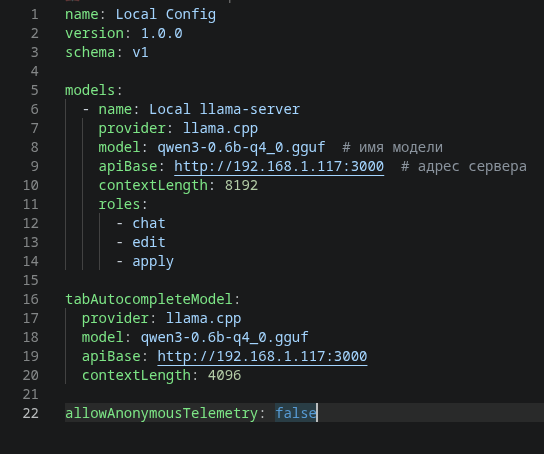
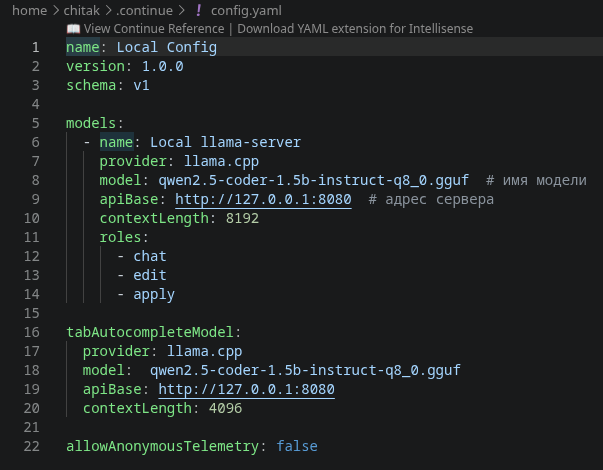
12345

Changed region(s): [[0.0, 0.0, 0.9688, 0.9868]]

diff --git a/test_code/test1.cpp b/test_code/test1.cpp
@@ -1,0 +1,37 @@
+#include <iostream>
+using namespace std;
+int main() {
+    // Prompt user to enter the character for the square
+    char symbol;
+    cout << "Enter the character for the square: ";
+    cin >> symbol;
+
+    // Prompt user to enter the size of the square
+    int size;
+    cout << "Enter the size of the square: ";
+    cin >> size;
+
+    // Print the top and bottom rows of the square
+    for (int i = 0; i < size; i++) {
+        cout << symbol;
+    }
+    cout << endl;
+
+    // Print the middle rows of the square
+    for (int i = 0; i < size - 2; i++) {
+        cout << symbol;
+        for (int j = 1; j < size - 1; j++) {
+            cout << " ";
+        }
+        cout << symbol;
+        cout << endl;
+    }
+
+    // Print the last row of the square
+    for (int i = 0; i < size; i++) {
+        cout << symbol;
+    }
+    cout << endl;
+
+    return 0;
+}